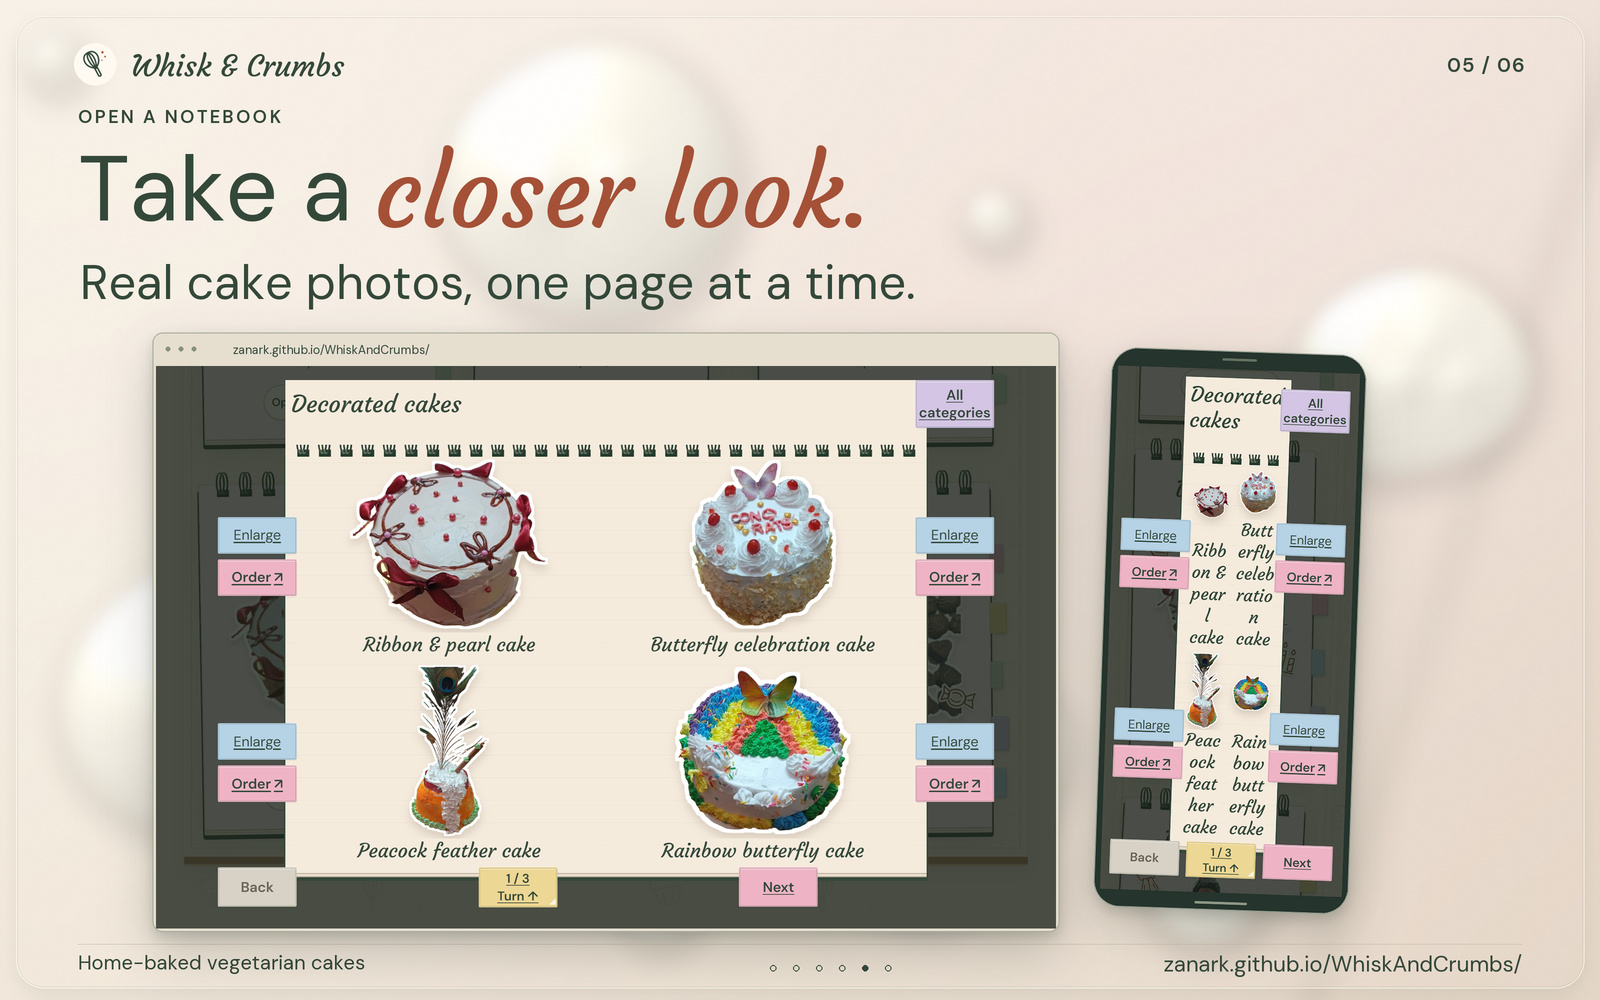
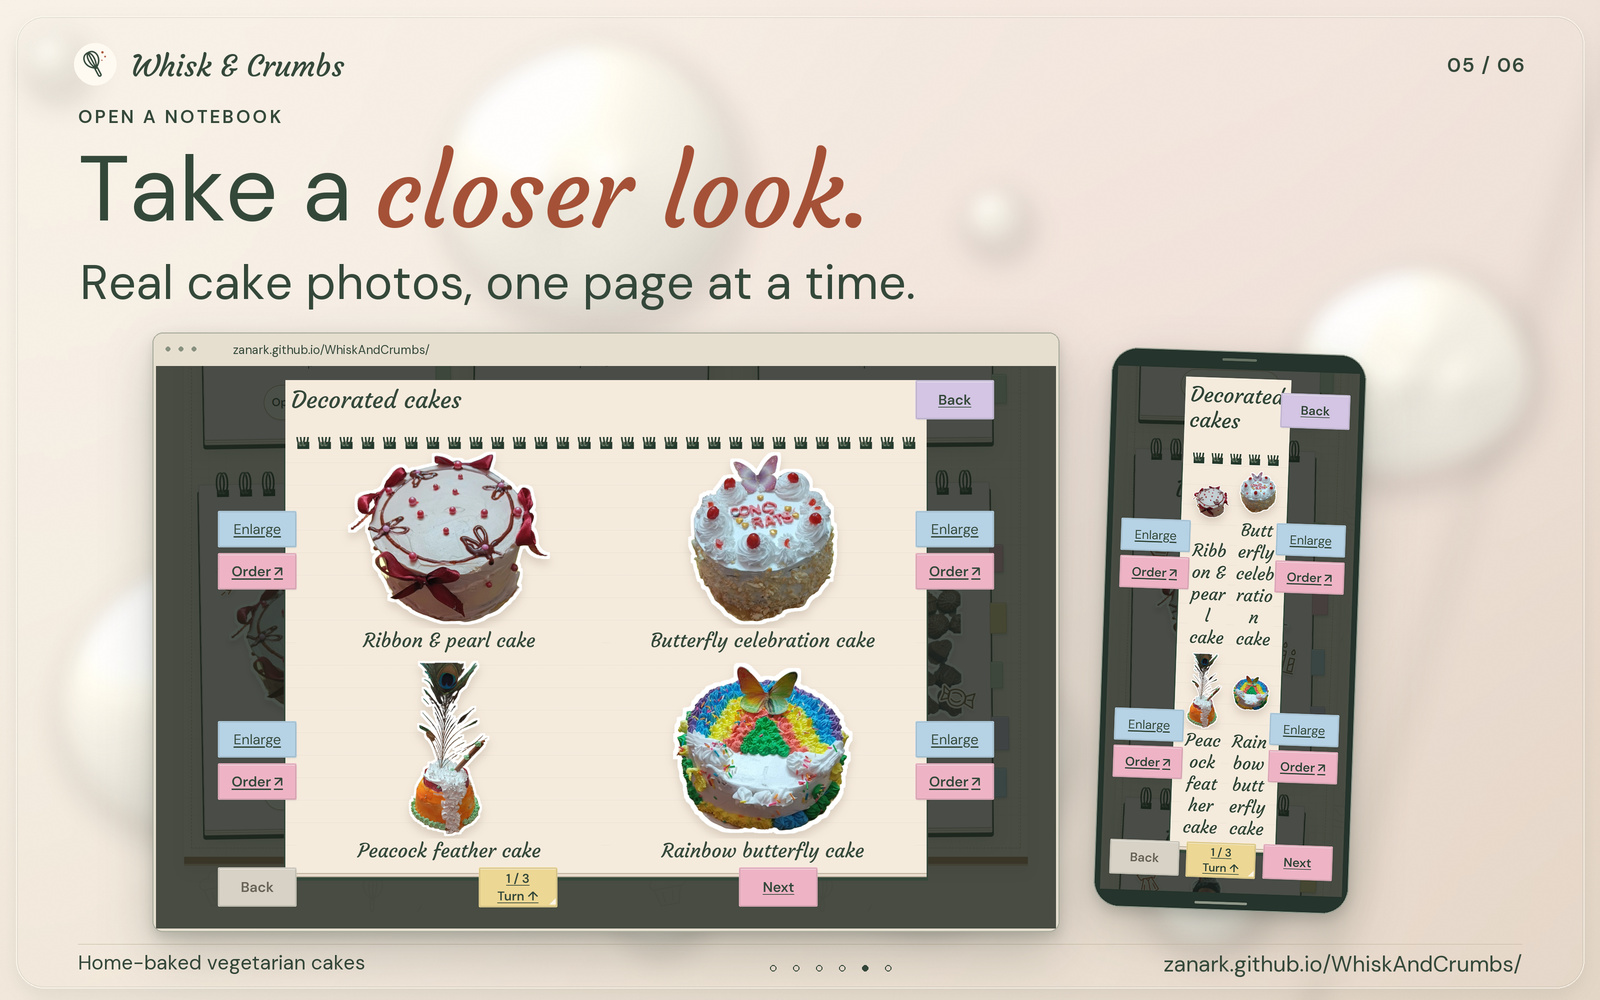
Rename notebook category-return actions to Back
Keep category-return focus behavior and static links intact, with an accessible name distinct from previous-page Back. Refresh the matching notebook showcase.

Copilot-Session: 065222f9-e445-4b98-a549-e6948580c174

diff --git a/site/index.html b/site/index.html
@@ -341,7 +341,7 @@
       <span class="spiral-binding" aria-hidden="true"></span>
       <div class="notebook-heading">
         <h3 id="notebook-title-birthday-cakes" tabindex="-1">Birthday Cakes</h3>
-        <a class="notebook-static-back" href="#cakes">All categories <span aria-hidden="true">&#8593;</span></a>
+        <a class="notebook-static-back" href="#cakes" aria-label="Back to cake categories">Back <span aria-hidden="true">&#8593;</span></a>
       </div>
       <div class="notebook-stage">
         <div class="notebook-sheet" data-notebook-page data-page-kind="photos">
@@ -378,7 +378,7 @@
       <span class="spiral-binding" aria-hidden="true"></span>
       <div class="notebook-heading">
         <h3 id="notebook-title-tea-cakes" tabindex="-1">Tea cakes</h3>
-        <a class="notebook-static-back" href="#cakes">All categories <span aria-hidden="true">&#8593;</span></a>
+        <a class="notebook-static-back" href="#cakes" aria-label="Back to cake categories">Back <span aria-hidden="true">&#8593;</span></a>
       </div>
       <div class="notebook-stage">
         <div class="notebook-sheet" data-notebook-page data-page-kind="photos">
@@ -415,7 +415,7 @@
       <span class="spiral-binding" aria-hidden="true"></span>
       <div class="notebook-heading">
         <h3 id="notebook-title-cream-cakes" tabindex="-1">Cream cakes</h3>
-        <a class="notebook-static-back" href="#cakes">All categories <span aria-hidden="true">&#8593;</span></a>
+        <a class="notebook-static-back" href="#cakes" aria-label="Back to cake categories">Back <span aria-hidden="true">&#8593;</span></a>
       </div>
       <div class="notebook-stage">
         <div class="notebook-sheet" data-notebook-page data-page-kind="photos">
@@ -452,7 +452,7 @@
       <span class="spiral-binding" aria-hidden="true"></span>
       <div class="notebook-heading">
         <h3 id="notebook-title-decorated-cakes" tabindex="-1">Decorated cakes</h3>
-        <a class="notebook-static-back" href="#cakes">All categories <span aria-hidden="true">&#8593;</span></a>
+        <a class="notebook-static-back" href="#cakes" aria-label="Back to cake categories">Back <span aria-hidden="true">&#8593;</span></a>
       </div>
       <div class="notebook-stage">
         <div class="notebook-sheet" data-notebook-page data-page-kind="photos">
@@ -630,7 +630,7 @@
       <span class="spiral-binding" aria-hidden="true"></span>
       <div class="notebook-heading">
         <h3 id="notebook-title-doll-cakes" tabindex="-1">Doll cakes</h3>
-        <a class="notebook-static-back" href="#cakes">All categories <span aria-hidden="true">&#8593;</span></a>
+        <a class="notebook-static-back" href="#cakes" aria-label="Back to cake categories">Back <span aria-hidden="true">&#8593;</span></a>
       </div>
       <div class="notebook-stage">
         <div class="notebook-sheet" data-notebook-page data-page-kind="photos">
@@ -667,7 +667,7 @@
       <span class="spiral-binding" aria-hidden="true"></span>
       <div class="notebook-heading">
         <h3 id="notebook-title-chocolates" tabindex="-1">Chocolates</h3>
-        <a class="notebook-static-back" href="#cakes">All categories <span aria-hidden="true">&#8593;</span></a>
+        <a class="notebook-static-back" href="#cakes" aria-label="Back to cake categories">Back <span aria-hidden="true">&#8593;</span></a>
       </div>
       <div class="notebook-stage">
         <div class="notebook-sheet" data-notebook-page data-page-kind="photos">
@@ -736,7 +736,7 @@
   <dialog id="notebook-dialog" class="notebook-dialog" aria-labelledby="notebook-dialog-title" aria-describedby="notebook-keyboard-help">
     <div class="notebook-dialog-toolbar">
       <p id="notebook-dialog-title" tabindex="-1">Your notebook</p>
-      <button id="notebook-close" type="button">All categories</button>
+      <button id="notebook-close" type="button" aria-label="Back to cake categories">Back</button>
     </div>
     <div id="notebook-mount"></div>
     <p id="notebook-keyboard-help" class="notebook-keyboard-help visually-hidden">Use the arrow keys or page buttons. You can also drag the bottom page control up.</p>

diff --git a/ABOUT.md b/ABOUT.md
@@ -102,12 +102,12 @@ and spacing adapt, with two-by-two pages on desktop/portrait phones and four
 across on short landscape screens. The page count is not reduced to fit.
 On multi-page notebooks, use **Back / Next**, the arrow keys, or drag the bottom
 **Turn** control upward. Single-page notebooks do not show unnecessary page controls.
-**All categories** returns to the covers. **Enlarge** opens the full photograph;
+The top **Back** button returns to the category covers. **Enlarge** opens the full photograph;
 **Order** opens the direct contact link to start an order enquiry; it does not
 confirm an order. Full accessible action names are retained.
 The notebook's cream paper and pastel tabs are opaque, including the attachment
 strips. Only the space outside its visible outline is transparent, keeping the
-tabs clearly outside the paper. **All categories**, page controls and each photo's
+tabs clearly outside the paper. The category-return **Back** button, page controls and each photo's
 **Enlarge / Order** tabs project beyond that outline, with generous click/tap areas.
 Cake names and category headings use larger type, with clearly labelled,
 generously sized controls. Each cake name is centered beneath its photograph.

diff --git a/README.md b/README.md
@@ -6,6 +6,6 @@
 
 [![Find your kind of cake: genuine pink-notebook views and readable headings on a single lightly frosted panel, with a unique clustered cream arrangement visible behind the glass.](site/assets/showcase/04-cake-notebooks.jpg?v=f8791960e3bc)](https://zanark.github.io/WhiskAndCrumbs/#cakes)
 
-[![Take a closer look: genuine four-photo notebooks with centered cake names and Enlarge and Order tabs, placed on lightly frosted glass above differently sized, irregular cream clusters.](site/assets/showcase/05-open-notebook.jpg?v=436f8a3dbff5)](https://zanark.github.io/WhiskAndCrumbs/#cakes)
+[![Take a closer look: genuine four-photo notebooks with centered cake names, a Back button to return to categories, and Enlarge and Order tabs, on lightly frosted glass above irregular cream clusters.](site/assets/showcase/05-open-notebook.jpg?v=b5cd53c2de50)](https://zanark.github.io/WhiskAndCrumbs/#cakes)
 
 [![Your next cake starts with hello: genuine desktop and mobile ordering views and sharp green copy on lightly frosted glass, with a separately oriented cream-cluster and droplet background.](site/assets/showcase/06-simple-ordering.jpg?v=efbcf27f804a)](https://zanark.github.io/WhiskAndCrumbs/#order)
